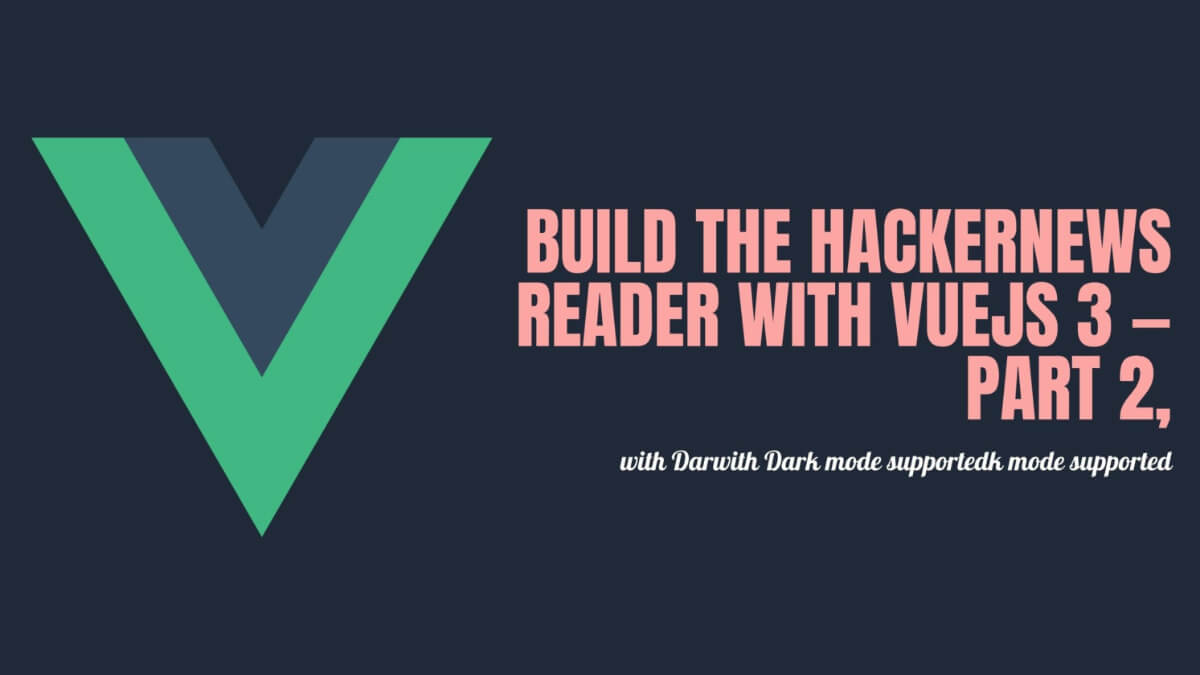
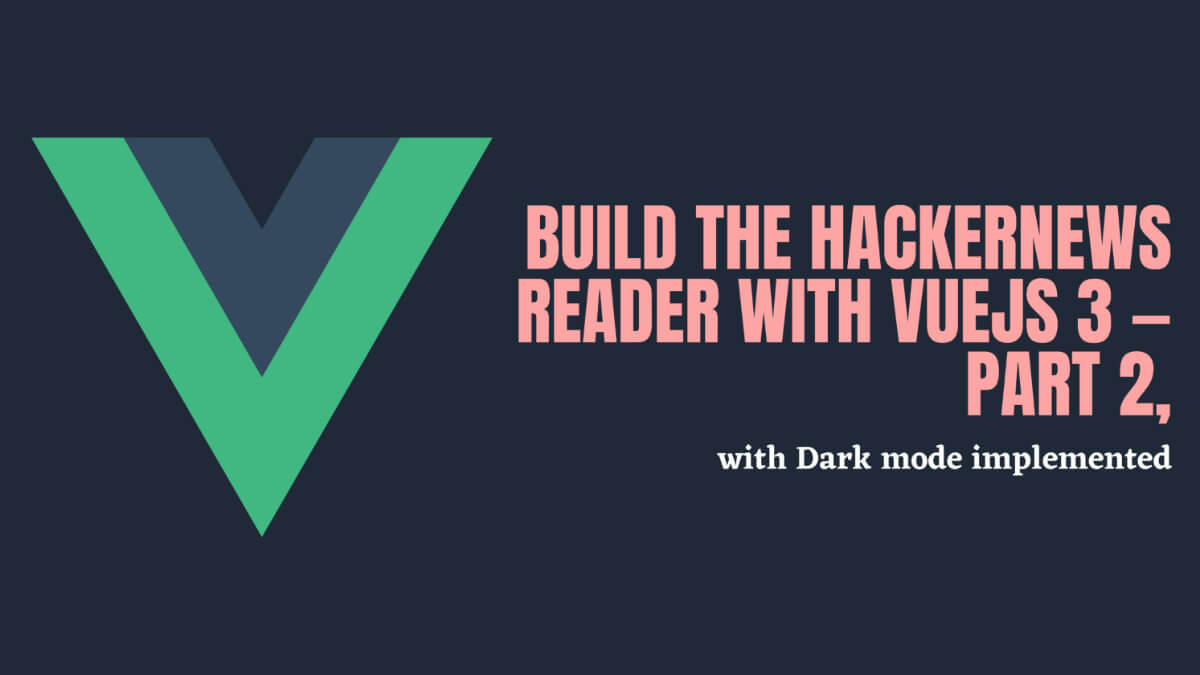
Revised the article, tweak UI

Changed region(s): [[0.4317, 0.28, 0.9867, 0.7156], [0.4317, 0.28, 0.555, 0.3111], [0.555, 0.3111, 0.5858, 0.3422]]

diff --git a/src/.vuepress/theme/components/Page.vue b/src/.vuepress/theme/components/Page.vue
@@ -3,12 +3,12 @@
 		<slot name="top" />
 		<div class="w-full px-6">
 			<h1 class="font-serif text-left pb-6" v-if="$page.title">{{ $page.title }}</h1>
-			<div class="flex py-1 dark:text-green-400">
+			<div class="flex py-2 dark:text-green-400">
 				<div class="text-sm mr-2" v-if="$page.frontmatter.date">📅 {{ new Date(Date.parse($page.frontmatter.date)).toDateString() }}</div>
 				<div class="text-sm mr-2" v-if="$page.frontmatter.author">✍ {{ $page.frontmatter.author }}</div>
 			</div>
 			<div class="my-2" v-if="$page.frontmatter.image"><img :src="$page.frontmatter.image" :alt="$page.title" width="1024" height="195" /></div>
-			<Content class="text-justify break-words dark:text-white" />
+			<Content class="text-justify break-words text-lg font-normal dark:text-gray-50" />
 		</div>
 		<PageEdit />
 		<PageNav v-bind="{ sidebarItems }" />

diff --git a/src/.vuepress/styles/dark.css b/src/.vuepress/styles/dark.css
@@ -4,15 +4,19 @@ body {
 }
 
 a {
-	@apply dark:text-pink-500 dark:hover:text-indigo-500;
+	@apply dark:text-pink-500 dark:hover:text-indigo-500 !important;
 }
 
 #app {
 	@apply dark:bg-gray-900 dark:text-white;
 }
 
-.navbar {
-	@apply dark:bg-gray-400 bg-opacity-30 !important;
+h1#main-title {
+	@apply dark:text-green-400 !important;
+}
+
+.theme-container .navbar {
+	@apply dark:bg-gray-600;
 }
 
 a.nav-link {
@@ -23,8 +27,12 @@ a.nav-link {
 	@apply dark:text-yellow-500 !important;
 }
 
+.sidebar {
+	@apply dark:bg-gray-700;
+}
+
 .feature h2 {
-	@apply dark:text-green-400 !important;
+	@apply dark:text-blue-300 !important;
 }
 
 .feature p {

diff --git a/src/.vuepress/components/Posts.vue b/src/.vuepress/components/Posts.vue
@@ -7,7 +7,7 @@
 						<h2 class="text-3xl font-sans">
 							<router-link :to="page.path">{{ page.title }}</router-link>
 						</h2>
-						<div class="flex flex-row py-1 dark:text-green-400">
+						<div class="flex flex-row py-2 dark:text-green-400">
 							<div class="text-sm mr-2" v-if="page.frontmatter.date">📅 {{ new Date(Date.parse(page.frontmatter.date)).toDateString() }}</div>
 							<div class="text-sm mr-2" v-if="page.frontmatter.author">✍ {{ page.frontmatter.author }}</div>
 						</div>

diff --git a/src/blog/posts/2021-01-16-build-hackernews-reader-vuejs-tailwind-p2.md b/src/blog/posts/2021-01-16-build-hackernews-reader-vuejs-tailwind-p2.md
@@ -1,11 +1,12 @@
 ---
-title: Build the HackerNews Reader with VueJS 3 — Part 2, with Dark mode supported
-description: Step by step, with detailed explanations, to build the HackerNews Reader using Vue 3, Vite 2, VueX 4 & Tailwind, with the implementation of dark mode.
+title: Build the HackerNews Reader with VueJS 3 — Part 2, with Dark mode implemented
+description: Step by step, with detailed explanations, to build the HackerNews Reader using Vue 3, Vite 2, VueX 4 & Tailwind, with the implementation of dark mode and more.
 author: Truong Phan
 type: article
 image: /media/vhnews-tutorials-p2/banner.jpg
 date: 2021-01-16
 tags:
+  - tutorial
   - vuepress
   - vuejs
   - taildwind
@@ -14,13 +15,13 @@ tags:
   - api
   - darkmode
 ---
-After building a very basic Single Page Application (SPA) from the first article, today we gonna continue to enhance the application. Our goals in this article are:
+After building a very basic Single Page Application (SPA) from [the first tutorial with VueJS 3](http://localhost:8080/2021/01/09/build-hackernews-reader-vuejs-tailwind-p1/), today we gonna continue to enhance the application. Our goals in this article are:
 
-- Fetch more kinds of items from HackerNews (previously, the site just received only top stories) with a proper mini navigation.
-- Add Dark Mode feature
-- Use localStorage to save user preferences: the last selected sections, and the theme mode
-
-We use the current [release](https://github.com/infantiablue/vhnews/releases/tag/0.1) from Github to continue development. Look at the HackerNews homepage, we can see it has other sections such as *new, jobs , asks ...* and go through the [official API](https://github.com/HackerNews/API), all of them are supported through REST APIs. Here are URL endpoints:
+- *Fetch more kinds of items from HackerNews (previously, the site just received only ***top*** stories) with a proper mini navigation.*
+- *Nowadays, dark mode is a first-class feature for any application, so we will equip it for our application either.*
+- *Implement `localStorage` to save user preferences: the last selected topic, and dark/light mode*
+  
+We use the current [release](https://github.com/infantiablue/vhnews/releases/tag/0.1) from Github to continue development. Look at the HackerNews homepage, we can see it has other topics such as *new, jobs , asks ...* and go through the [official API](https://github.com/HackerNews/API), all of them are supported through REST APIs. Here are URL endpoints:
 
 ![The official HackerNews screenshit](../../.vuepress/public/media/vhnews-tutorials-p2/hnews_screenshot.png)
 
@@ -49,7 +50,7 @@ data() {
   };
 ```
 
-With this desing of data, we can customize such as icons, color ... for the topic navigation with ease. Then, we generate the navigation bar by using `v-for`
+With this design of data structure, we can customize such as icons, color ... for the topic navigation with ease. Then, we generate the navigation bar by using `v-for`
 
 ```html
 <div class="flex items-baseline">
@@ -63,7 +64,7 @@ With this desing of data, we can customize such as icons, color ... for the topi
 
 The `$event` param would be used to manipulate css class later. And, I must say, the Tailwind CSS framework is so powerful, especially in this kind of scenario, I don't need to hard code other css class, just use built in class utilites to decorate the elements.
 
-Nest step, we need functions to make UI wokrs, we gonna implement a method to load each topic when user click on. It's just a simple function to `dispatch` the `fetchItems` action from Vuex store with a param (we will modify it later). Also, we need a mechanism to highlight the active topic, by adding & removing a text color class from tailwind.
+Nest step, we need functions to make the user interface wokrs, we gonna implement a method to load each topic when user click on. It's just a simple function to `dispatch` the `fetchItems` action from Vuex store with a param (we will modify it later). Also, we need a mechanism to highlight the active topic, by adding & removing a text color class from tailwind.
 
 ```javascript
 methods: {
@@ -78,7 +79,7 @@ methods: {
 },
 ```
 
-Now, for the Vuex Store action, we will rename and modify the function `loadLatestTopItems` in `store/index.js` as below:
+Now, for the Vuex Store action, we will rename function `loadLatestTopItems` in `store/index.js` to `fetchItems` and modify it as below:
 
 ```javascript
 fetchItems(context, type = "top") {
@@ -98,7 +99,7 @@ fetchItems(context, type = "top") {
 },
 ```
 
-The new function take the type params (with default is `top`) and then pass diretly to the API url endpoint by using the template literal feature. Now, run the command `yarn dev` and open `http://localhost:3000` to check if everything works. It should wokrs properly, however the problem is when you load the page first time, the `active` topic is not highlight, we need a solution for this.
+The new function take the type params (with default is `top`) and then pass diretly to the API url endpoint by using the template literal feature of modern javascript. Now, run the command `yarn dev` and open `http://localhost:3000` to check if everything works. It should wokrs properly, however the problem is when you load the page first time, the `active` topic is not highlight, we need a solution for this.
 
 ```javascript
 created() {
@@ -109,7 +110,7 @@ mounted() {
 },
 ```
 
-The code is easy to understand, we load top stories by using the defined method `loadStories` when the component is `created` but at this stage of the Vue instance lifecyle, the DOM is not ready yet, so we need to put the next chunk of code to the `mounted` event, in order to highlight the top stories topic.
+The code is easy to understand, we load top stories by using the defined method `loadStories` when the component is `created` but at this stage of the Vue instance lifecyle, the DOM is not ready yet, so we need to put the next chunk of code to the `mounted` event, in order to highlight the top stories topic when the user load the page.
 
 ![Active Topic](../../.vuepress/public/media/vhnews-tutorials-p2/topic-highlight.png)
 
@@ -136,7 +137,7 @@ Then, we are going to implement `dark` class to our applications. Firstly we mak
 @tailwind utilities;
 ```
 
-In this step, the color is totally up to your taste, the full source code is availabel on Github for your references. In order to save users' preferences, `localStorage` is an execellent choice for a SPA app like this. From MDN, *"The read-only localStorage property allows you to access a Storage object for the Document's origin; the stored data is saved across browser sessions. localStorage is similar to sessionStorage, except that while data stored in localStorage has no expiration time"* The function `toggleDarkMode` below is written base on it. The function will accept a parameter to set the intended theme (which we can use when initializing the application) or toggle it.
+In this step, the color is totally up to your taste, the full source code is available on Github for your references. In order to save users' preferences, `localStorage` is an execellent choice for a SPA app like this. From MDN, *"The read-only localStorage property allows you to access a Storage object for the Document's origin; the stored data is saved across browser sessions. localStorage is similar to sessionStorage, except that while data stored in localStorage has no expiration time"* The function `toggleDarkMode` below is written base on it. The function will accept a parameter to set the intended theme (which we can use when initializing the application) or toggle it.
 
 ```javascript
 toggleDarkMode(theme, evt) {
@@ -162,7 +163,7 @@ toggleDarkMode(theme, evt) {
 },
 ```
 
-We inject an icon (I just make use of the emoj for the quick implementation) for user to switch theme in the `template` section of the file `App.vue`
+We inject an icon (I just use of the emoj for the quick design) for user to switch theme in the `template` section of the file `App.vue`
 
 ```html
 <div class="theme-switch-wrapper">

diff --git a/src/blog/posts/2021-01-09-build-hackernews-reader-vuejs-tailwind-p1.md b/src/blog/posts/2021-01-09-build-hackernews-reader-vuejs-tailwind-p1.md
@@ -6,6 +6,7 @@ type: article
 image: /media/vhnews-tutorials/banner.jpg
 date: 2021-01-09
 tags:
+  - tutorial
   - vuepress
   - vuejs
   - taildwind
@@ -223,7 +224,7 @@ Reload the page to check the result
 ![The time is readable](https://dev-to-uploads.s3.amazonaws.com/i/8hprv3fgzjvq24gjufp7.png)
 
 The final source code is on [Github repo](https://github.com/infantiablue/vhnews).
-In the next article, we will implement advanced features of Vue components to render them dynamically. I would appreciate to receive any feedback from you guys
+In the next article, we will implement advanced features of Vue components to render them dynamically. I would appreciate to receive any feedback from you guys.
 
 Resources:
 
